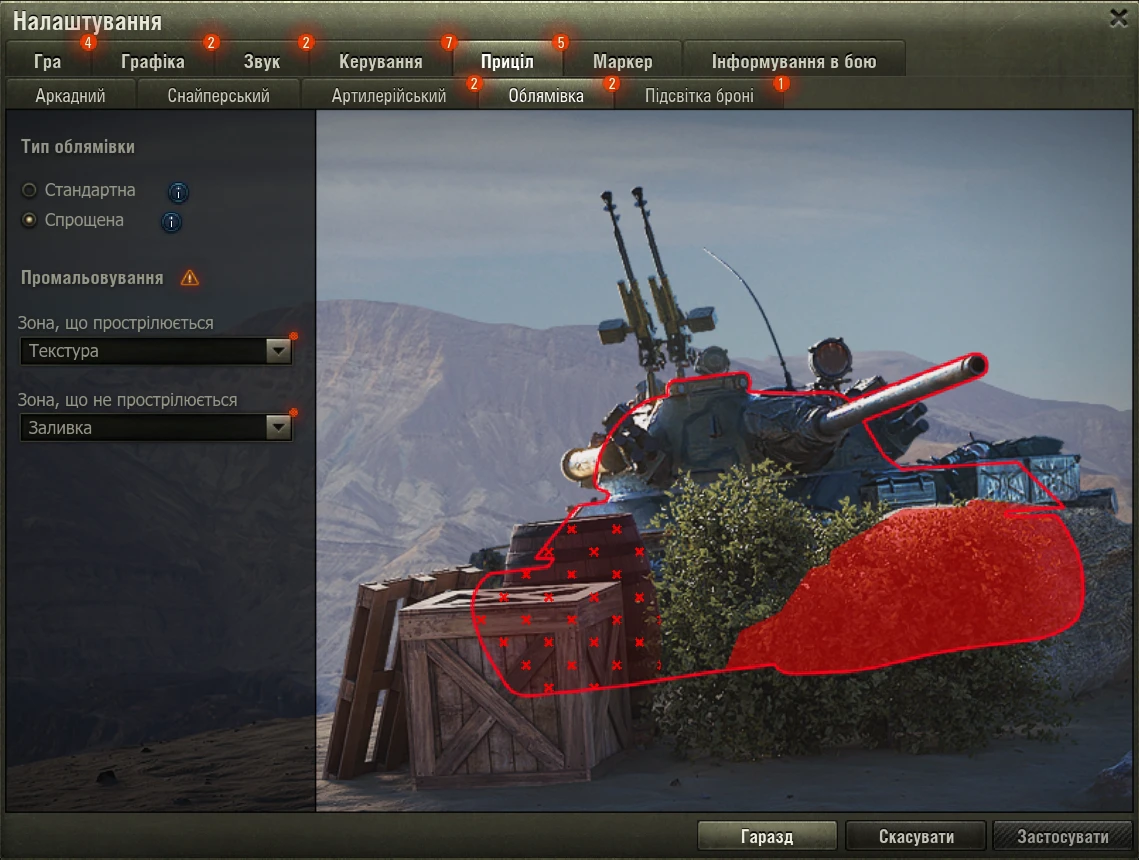
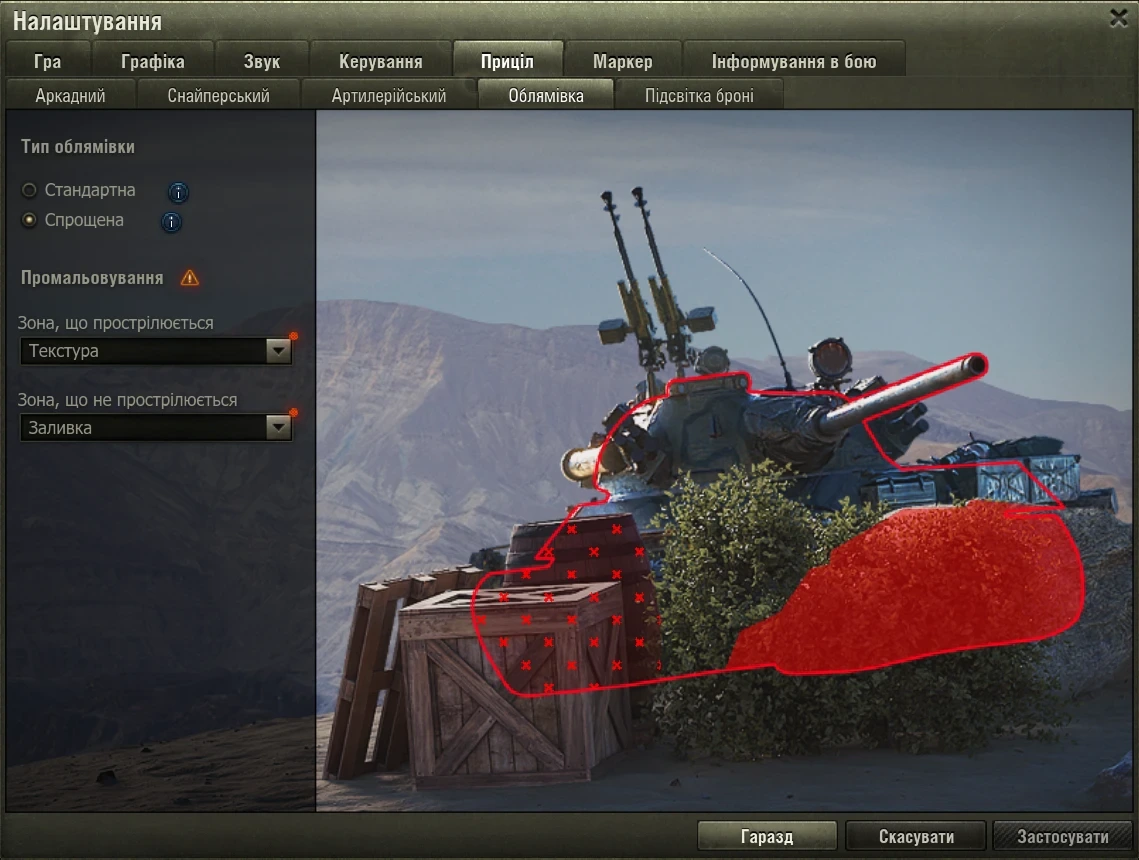
Налаштування: прибрано червоні лічильники з вкладок, підсвічування внутрішніх вкладок по контуру
Claude-Session: https://claude.ai/code/session_01MCPiJz7rYY279iF9XTWyuA

diff --git a/en/settings/index.html b/en/settings/index.html
@@ -526,23 +526,23 @@ window.addEventListener('load', function () {
       <button type="button" class="gs-hot" data-main="pr" aria-label="Приціл" style="left:39.728%;top:4.651%;width:9.745%;height:4.186%"></button>
       <button type="button" class="gs-hot" data-main="mk" aria-label="Маркер" style="left:49.561%;top:4.651%;width:10.316%;height:4.186%"></button>
       <button type="button" class="gs-hot" data-main="inf" aria-label="Інформування в бою" style="left:59.965%;top:4.651%;width:19.491%;height:4.186%"></button>
-      <button type="button" class="gs-hot" data-for="pr" data-sub="ark" aria-label="Аркадний" style="left:0.620%;top:8.882%;width:11.290%;height:3.783%" hidden></button>
-      <button type="button" class="gs-hot" data-for="pr" data-sub="sn" aria-label="Снайперський" style="left:11.911%;top:8.882%;width:14.392%;height:3.783%" hidden></button>
-      <button type="button" class="gs-hot" data-for="pr" data-sub="art" aria-label="Артилерійський" style="left:26.303%;top:8.882%;width:15.633%;height:3.783%" hidden></button>
-      <button type="button" class="gs-hot" data-for="pr" data-sub="obl" aria-label="Облямівка" style="left:41.935%;top:8.882%;width:11.663%;height:3.783%" hidden></button>
-      <button type="button" class="gs-hot" data-for="pr" data-sub="pid" aria-label="Підсвітка броні" style="left:53.598%;top:8.882%;width:15.261%;height:3.783%" hidden></button>
-      <button type="button" class="gs-hot" data-for="mk" data-sub="sup" aria-label="Супротивник" style="left:0.620%;top:8.882%;width:13.275%;height:3.783%" hidden></button>
-      <button type="button" class="gs-hot" data-for="mk" data-sub="soyuz" aria-label="Союзники" style="left:13.896%;top:8.882%;width:11.911%;height:3.783%" hidden></button>
-      <button type="button" class="gs-hot" data-for="mk" data-sub="zn" aria-label="Знищені" style="left:25.806%;top:8.882%;width:10.546%;height:3.783%" hidden></button>
-      <button type="button" class="gs-hot" data-for="inf" data-sub="ind" aria-label="Індикатор обстрілу" style="left:0.620%;top:8.882%;width:16.998%;height:3.783%" hidden></button>
-      <button type="button" class="gs-hot" data-for="inf" data-sub="podii" aria-label="Події у бою" style="left:17.618%;top:8.882%;width:12.407%;height:3.783%" hidden></button>
-      <button type="button" class="gs-hot" data-for="inf" data-sub="ist" aria-label="Історія подій" style="left:30.025%;top:8.882%;width:13.400%;height:3.783%" hidden></button>
-      <button type="button" class="gs-hot" data-for="inf" data-sub="mezha" aria-label="Межа мапи" style="left:43.424%;top:8.882%;width:13.027%;height:3.783%" hidden></button>
-      <button type="button" class="gs-hot" data-for="inf" data-sub="zvit" aria-label="Бойовий звіт й ОБЗ" style="left:56.452%;top:8.882%;width:17.742%;height:3.783%" hidden></button>
-      <button type="button" class="gs-hot" data-for="zvuk" data-sub="zag" aria-label="Загальний рівень" style="left:32.7%;top:17.6%;width:17.3%;height:4.4%" hidden></button>
-      <button type="button" class="gs-hot" data-for="zvuk" data-sub="golos" aria-label="Голосовий зв'язок" style="left:50%;top:17.6%;width:17.3%;height:4.4%" hidden></button>
-      <button type="button" class="gs-hot" data-for="graf" data-sub="ekran" aria-label="Екран" style="left:33.747%;top:24.836%;width:16.377%;height:4.441%" hidden></button>
-      <button type="button" class="gs-hot" data-for="graf" data-sub="dokl" aria-label="Докладні" style="left:50.124%;top:24.836%;width:16.377%;height:4.441%" hidden></button>
+      <button type="button" class="gs-hot" data-for="pr" data-sub="ark" aria-label="Аркадний" style="left:0.588%;top:9.070%;width:11.361%;height:3.547%" hidden></button>
+      <button type="button" class="gs-hot" data-for="pr" data-sub="sn" aria-label="Снайперський" style="left:12.090%;top:9.070%;width:14.258%;height:3.547%" hidden></button>
+      <button type="button" class="gs-hot" data-for="pr" data-sub="art" aria-label="Артилерійський" style="left:26.488%;top:9.070%;width:15.356%;height:3.547%" hidden></button>
+      <button type="button" class="gs-hot" data-for="pr" data-sub="obl" aria-label="Облямівка" style="left:41.984%;top:9.070%;width:11.932%;height:3.547%" hidden></button>
+      <button type="button" class="gs-hot" data-for="pr" data-sub="pid" aria-label="Підсвітка броні" style="left:54.056%;top:9.070%;width:14.653%;height:3.547%" hidden></button>
+      <button type="button" class="gs-hot" data-for="mk" data-sub="sup" aria-label="Супротивник" style="left:0.588%;top:9.070%;width:13.468%;height:3.547%" hidden></button>
+      <button type="button" class="gs-hot" data-for="mk" data-sub="soyuz" aria-label="Союзники" style="left:14.197%;top:9.070%;width:11.536%;height:3.547%" hidden></button>
+      <button type="button" class="gs-hot" data-for="mk" data-sub="zn" aria-label="Знищені" style="left:25.874%;top:9.070%;width:10.439%;height:3.547%" hidden></button>
+      <button type="button" class="gs-hot" data-for="inf" data-sub="ind" aria-label="Індикатор обстрілу" style="left:0.588%;top:9.070%;width:17.155%;height:3.547%" hidden></button>
+      <button type="button" class="gs-hot" data-for="inf" data-sub="podii" aria-label="Події у бою" style="left:17.884%;top:9.070%;width:12.283%;height:3.547%" hidden></button>
+      <button type="button" class="gs-hot" data-for="inf" data-sub="ist" aria-label="Історія подій" style="left:30.307%;top:9.070%;width:13.292%;height:3.547%" hidden></button>
+      <button type="button" class="gs-hot" data-for="inf" data-sub="mezha" aria-label="Межа мапи" style="left:43.740%;top:9.070%;width:12.678%;height:3.547%" hidden></button>
+      <button type="button" class="gs-hot" data-for="inf" data-sub="zvit" aria-label="Бойовий звіт й ОБЗ" style="left:56.558%;top:9.070%;width:17.682%;height:3.547%" hidden></button>
+      <button type="button" class="gs-hot" data-for="zvuk" data-sub="zag" aria-label="Загальний рівень" style="left:32.836%;top:18.372%;width:17.076%;height:3.837%" hidden></button>
+      <button type="button" class="gs-hot" data-for="zvuk" data-sub="golos" aria-label="Голосовий зв'язок" style="left:50.044%;top:18.372%;width:17.164%;height:3.837%" hidden></button>
+      <button type="button" class="gs-hot" data-for="graf" data-sub="ekran" aria-label="Екран" style="left:33.802%;top:24.767%;width:16.286%;height:3.837%" hidden></button>
+      <button type="button" class="gs-hot" data-for="graf" data-sub="dokl" aria-label="Докладні" style="left:50.088%;top:24.767%;width:16.286%;height:3.837%" hidden></button>
     </div>
   </div>
 </main>

diff --git a/settings/index.html b/settings/index.html
@@ -526,23 +526,23 @@ window.addEventListener('load', function () {
       <button type="button" class="gs-hot" data-main="pr" aria-label="Приціл" style="left:39.728%;top:4.651%;width:9.745%;height:4.186%"></button>
       <button type="button" class="gs-hot" data-main="mk" aria-label="Маркер" style="left:49.561%;top:4.651%;width:10.316%;height:4.186%"></button>
       <button type="button" class="gs-hot" data-main="inf" aria-label="Інформування в бою" style="left:59.965%;top:4.651%;width:19.491%;height:4.186%"></button>
-      <button type="button" class="gs-hot" data-for="pr" data-sub="ark" aria-label="Аркадний" style="left:0.620%;top:8.882%;width:11.290%;height:3.783%" hidden></button>
-      <button type="button" class="gs-hot" data-for="pr" data-sub="sn" aria-label="Снайперський" style="left:11.911%;top:8.882%;width:14.392%;height:3.783%" hidden></button>
-      <button type="button" class="gs-hot" data-for="pr" data-sub="art" aria-label="Артилерійський" style="left:26.303%;top:8.882%;width:15.633%;height:3.783%" hidden></button>
-      <button type="button" class="gs-hot" data-for="pr" data-sub="obl" aria-label="Облямівка" style="left:41.935%;top:8.882%;width:11.663%;height:3.783%" hidden></button>
-      <button type="button" class="gs-hot" data-for="pr" data-sub="pid" aria-label="Підсвітка броні" style="left:53.598%;top:8.882%;width:15.261%;height:3.783%" hidden></button>
-      <button type="button" class="gs-hot" data-for="mk" data-sub="sup" aria-label="Супротивник" style="left:0.620%;top:8.882%;width:13.275%;height:3.783%" hidden></button>
-      <button type="button" class="gs-hot" data-for="mk" data-sub="soyuz" aria-label="Союзники" style="left:13.896%;top:8.882%;width:11.911%;height:3.783%" hidden></button>
-      <button type="button" class="gs-hot" data-for="mk" data-sub="zn" aria-label="Знищені" style="left:25.806%;top:8.882%;width:10.546%;height:3.783%" hidden></button>
-      <button type="button" class="gs-hot" data-for="inf" data-sub="ind" aria-label="Індикатор обстрілу" style="left:0.620%;top:8.882%;width:16.998%;height:3.783%" hidden></button>
-      <button type="button" class="gs-hot" data-for="inf" data-sub="podii" aria-label="Події у бою" style="left:17.618%;top:8.882%;width:12.407%;height:3.783%" hidden></button>
-      <button type="button" class="gs-hot" data-for="inf" data-sub="ist" aria-label="Історія подій" style="left:30.025%;top:8.882%;width:13.400%;height:3.783%" hidden></button>
-      <button type="button" class="gs-hot" data-for="inf" data-sub="mezha" aria-label="Межа мапи" style="left:43.424%;top:8.882%;width:13.027%;height:3.783%" hidden></button>
-      <button type="button" class="gs-hot" data-for="inf" data-sub="zvit" aria-label="Бойовий звіт й ОБЗ" style="left:56.452%;top:8.882%;width:17.742%;height:3.783%" hidden></button>
-      <button type="button" class="gs-hot" data-for="zvuk" data-sub="zag" aria-label="Загальний рівень" style="left:32.7%;top:17.6%;width:17.3%;height:4.4%" hidden></button>
-      <button type="button" class="gs-hot" data-for="zvuk" data-sub="golos" aria-label="Голосовий зв'язок" style="left:50%;top:17.6%;width:17.3%;height:4.4%" hidden></button>
-      <button type="button" class="gs-hot" data-for="graf" data-sub="ekran" aria-label="Екран" style="left:33.747%;top:24.836%;width:16.377%;height:4.441%" hidden></button>
-      <button type="button" class="gs-hot" data-for="graf" data-sub="dokl" aria-label="Докладні" style="left:50.124%;top:24.836%;width:16.377%;height:4.441%" hidden></button>
+      <button type="button" class="gs-hot" data-for="pr" data-sub="ark" aria-label="Аркадний" style="left:0.588%;top:9.070%;width:11.361%;height:3.547%" hidden></button>
+      <button type="button" class="gs-hot" data-for="pr" data-sub="sn" aria-label="Снайперський" style="left:12.090%;top:9.070%;width:14.258%;height:3.547%" hidden></button>
+      <button type="button" class="gs-hot" data-for="pr" data-sub="art" aria-label="Артилерійський" style="left:26.488%;top:9.070%;width:15.356%;height:3.547%" hidden></button>
+      <button type="button" class="gs-hot" data-for="pr" data-sub="obl" aria-label="Облямівка" style="left:41.984%;top:9.070%;width:11.932%;height:3.547%" hidden></button>
+      <button type="button" class="gs-hot" data-for="pr" data-sub="pid" aria-label="Підсвітка броні" style="left:54.056%;top:9.070%;width:14.653%;height:3.547%" hidden></button>
+      <button type="button" class="gs-hot" data-for="mk" data-sub="sup" aria-label="Супротивник" style="left:0.588%;top:9.070%;width:13.468%;height:3.547%" hidden></button>
+      <button type="button" class="gs-hot" data-for="mk" data-sub="soyuz" aria-label="Союзники" style="left:14.197%;top:9.070%;width:11.536%;height:3.547%" hidden></button>
+      <button type="button" class="gs-hot" data-for="mk" data-sub="zn" aria-label="Знищені" style="left:25.874%;top:9.070%;width:10.439%;height:3.547%" hidden></button>
+      <button type="button" class="gs-hot" data-for="inf" data-sub="ind" aria-label="Індикатор обстрілу" style="left:0.588%;top:9.070%;width:17.155%;height:3.547%" hidden></button>
+      <button type="button" class="gs-hot" data-for="inf" data-sub="podii" aria-label="Події у бою" style="left:17.884%;top:9.070%;width:12.283%;height:3.547%" hidden></button>
+      <button type="button" class="gs-hot" data-for="inf" data-sub="ist" aria-label="Історія подій" style="left:30.307%;top:9.070%;width:13.292%;height:3.547%" hidden></button>
+      <button type="button" class="gs-hot" data-for="inf" data-sub="mezha" aria-label="Межа мапи" style="left:43.740%;top:9.070%;width:12.678%;height:3.547%" hidden></button>
+      <button type="button" class="gs-hot" data-for="inf" data-sub="zvit" aria-label="Бойовий звіт й ОБЗ" style="left:56.558%;top:9.070%;width:17.682%;height:3.547%" hidden></button>
+      <button type="button" class="gs-hot" data-for="zvuk" data-sub="zag" aria-label="Загальний рівень" style="left:32.836%;top:18.372%;width:17.076%;height:3.837%" hidden></button>
+      <button type="button" class="gs-hot" data-for="zvuk" data-sub="golos" aria-label="Голосовий зв'язок" style="left:50.044%;top:18.372%;width:17.164%;height:3.837%" hidden></button>
+      <button type="button" class="gs-hot" data-for="graf" data-sub="ekran" aria-label="Екран" style="left:33.802%;top:24.767%;width:16.286%;height:3.837%" hidden></button>
+      <button type="button" class="gs-hot" data-for="graf" data-sub="dokl" aria-label="Докладні" style="left:50.088%;top:24.767%;width:16.286%;height:3.837%" hidden></button>
     </div>
   </div>
 </main>

diff --git a/sw.js b/sw.js
@@ -1,4 +1,4 @@
-const CACHE_VERSION = 'wot-boosted-v19';
+const CACHE_VERSION = 'wot-boosted-v21';
 const STATIC_CACHE = [
   '/',
   '/index.html',
